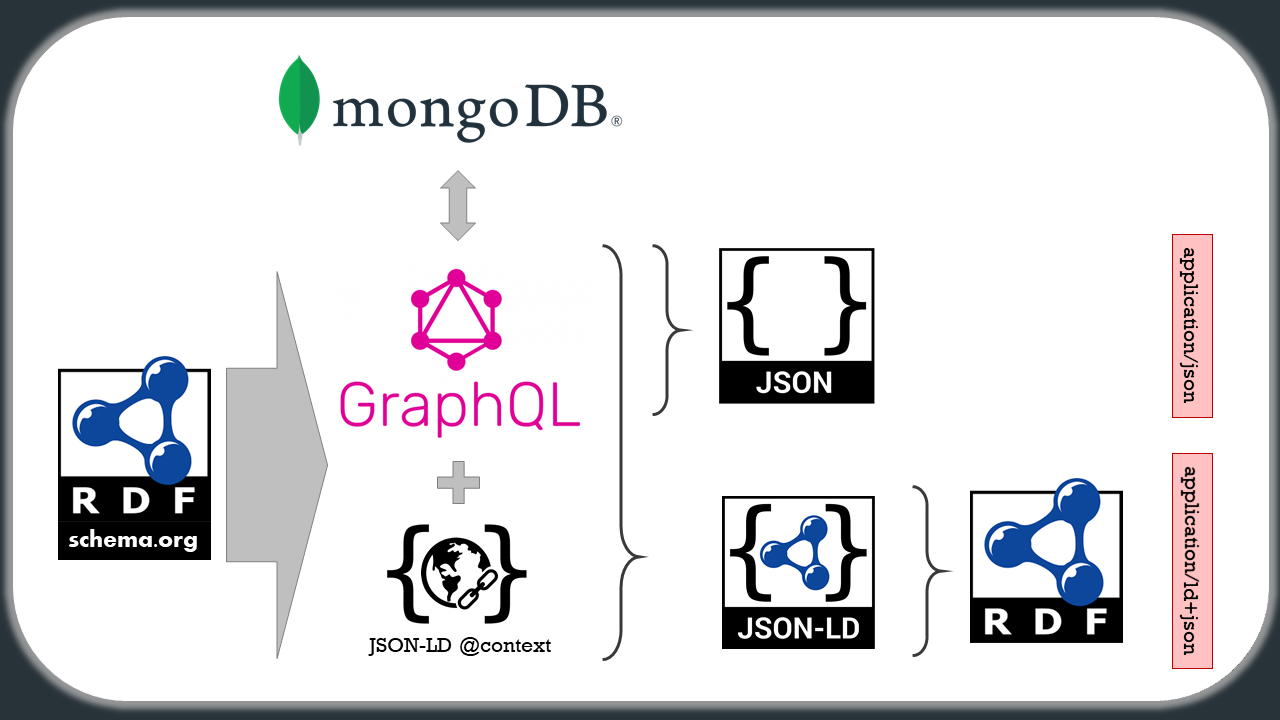
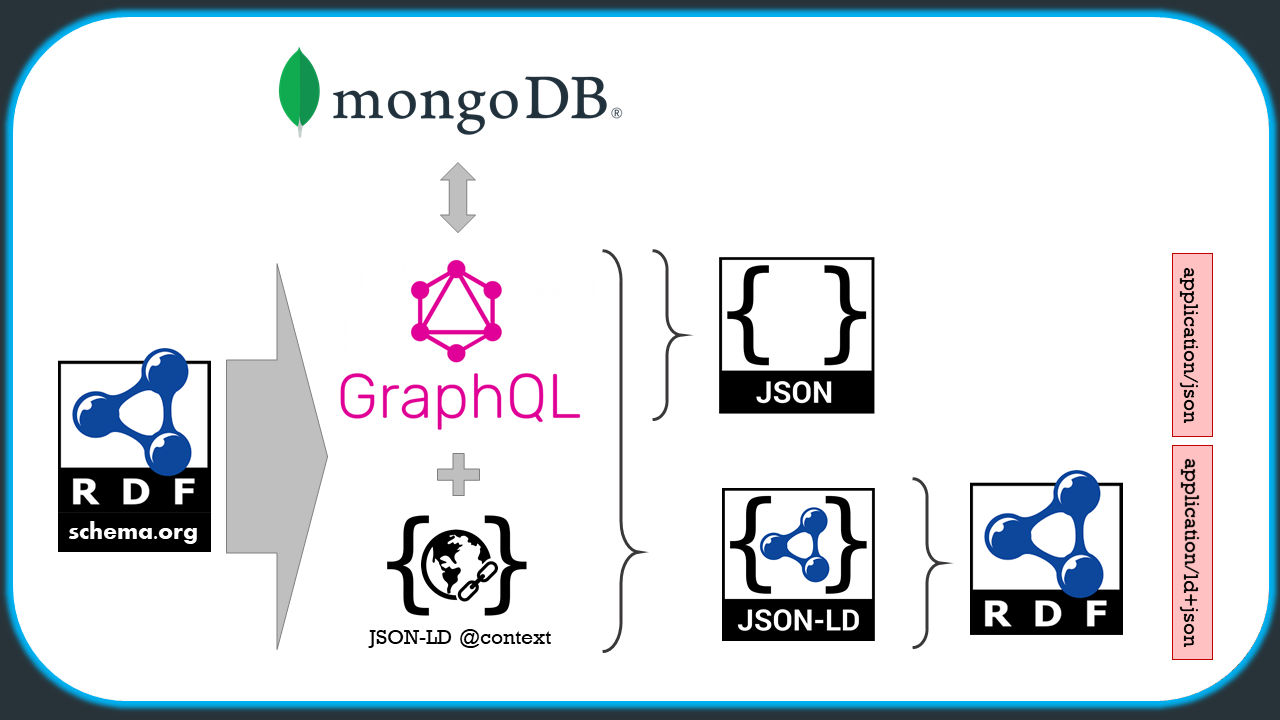
staple architecture figure improved

diff --git a/home/README.md b/home/README.md
@@ -21,7 +21,7 @@ It is intended as a simple, yet flexible, **data abstraction middleware**, which
 <br>
 
 <p align="center">
-  <img src="staple-api-architecture2.png">
+  <img src="staple-api-architecture.png">
 </p>
 
 
